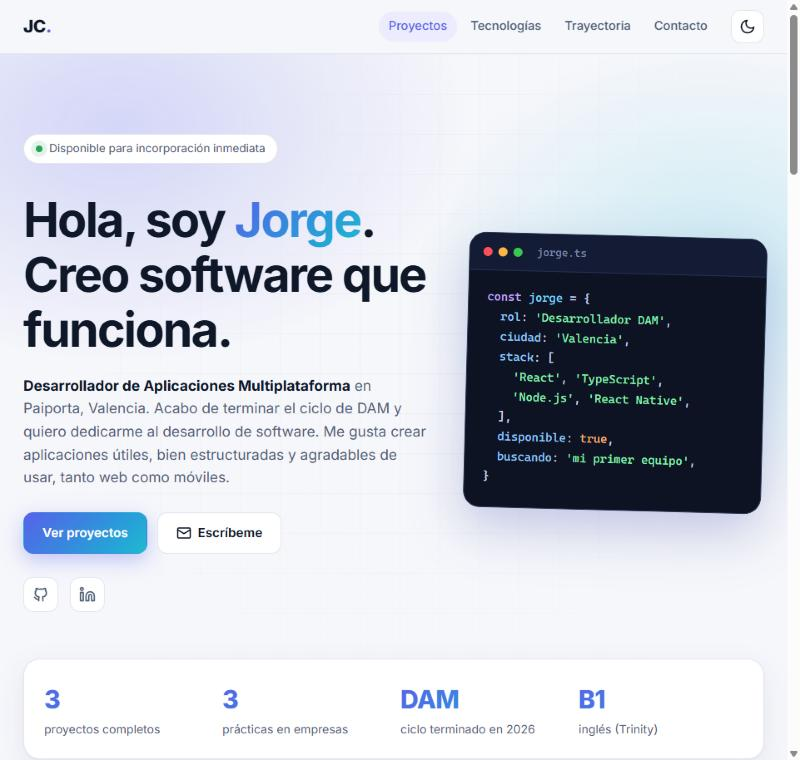
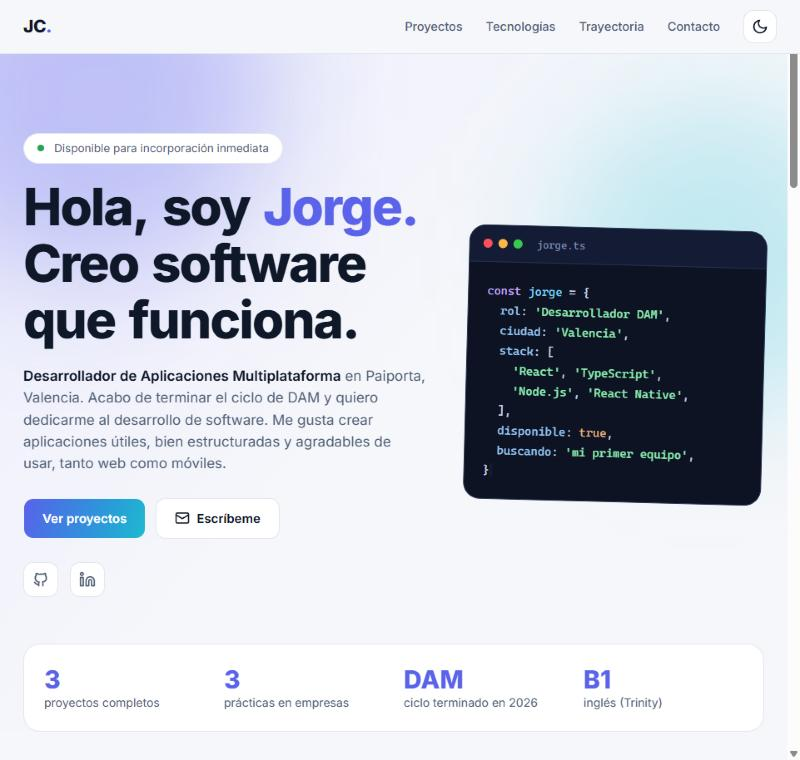
Actualiza README y capturas; ajusta el espaciado del título en móvil

diff --git a/src/components/Hero.tsx b/src/components/Hero.tsx
@@ -155,7 +155,7 @@ export function Hero({ onNavigate }: { onNavigate: (id: string) => void }) {
             </View>
           </Appear>
 
-          <View style={styles.title}>
+          <View style={[styles.title, { columnGap: isMobile ? 9 : 16 }]}>
             {TITLE.map((w, i) => (
               <Fragment key={w.text}>
               {i === 3 && <View style={{ width: '100%', height: 0 }} />}

diff --git a/README.md b/README.md
@@ -50,8 +50,6 @@ y publicada gratis con **EAS Hosting**.
 
 - **Contenido separado del diseño**: todos los textos, proyectos y tecnologías viven en `src/data/profile.ts`.
   Añadir un proyecto nuevo es añadir un objeto a una lista, sin tocar componentes.
-- **Tema con variables CSS**: los colores se definen una vez en `:root` y se redefinen con `[data-theme='dark']`.
-  Un pequeño script en `index.html` aplica el tema antes de pintar la página para evitar el parpadeo.
 - **Mismo stack que mis apps**: el portfolio usa Expo y React Native, igual que *Mis tareas*, así que el mismo código de interfaz podría reutilizarse en móvil.
 - **Tema propio**: un `ThemeProvider` con paletas clara y oscura; sigue al sistema y recuerda la elección en `localStorage`.
 - **Iconos SVG propios** con `react-native-svg`, para no cargar librerías de iconos.
